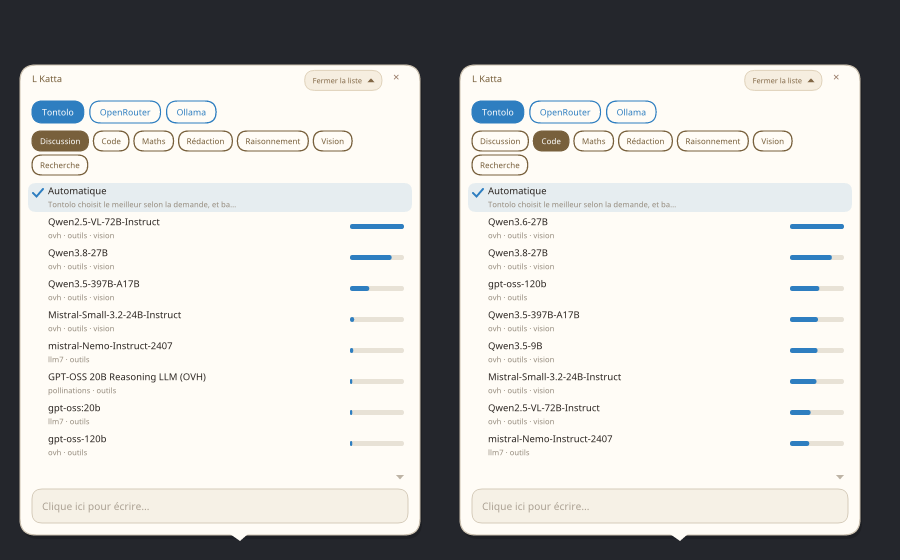
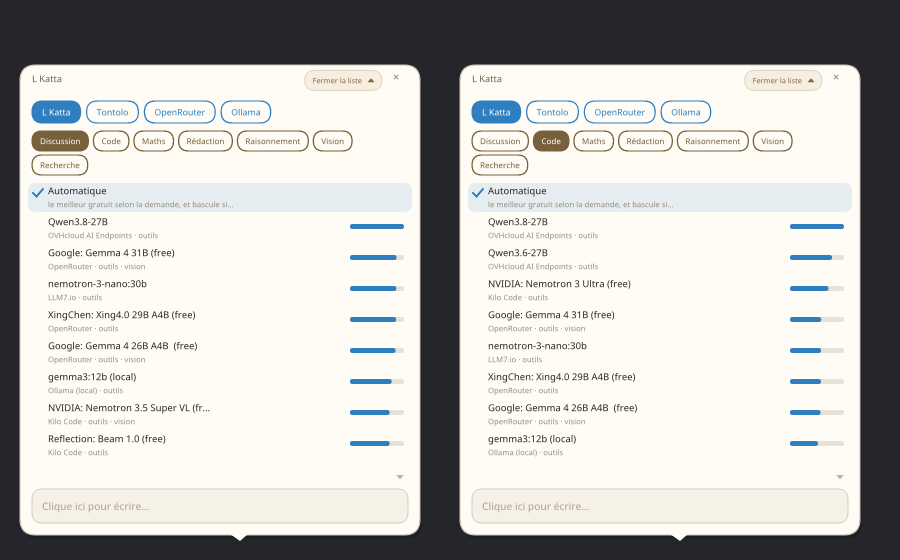
L Katta 0.0.3 : indépendant de Tontolo (moteur intégré), sélecteur de modèles, AppImage

diff --git a/src/maj.rs b/src/maj.rs
@@ -26,6 +26,7 @@ pub struct Release {
     pub version: String,
     pub notes: String,
     archive: String,
+    appimage: String,
     sums: String,
     pub page: String,
 }
@@ -61,13 +62,15 @@ pub fn check() -> Result<Option<Release>, String> {
     };
     let archive = url(&|n| n.ends_with("x86_64-linux.tar.gz"));
     let sums = url(&|n| n == "SHA256SUMS");
-    if archive.is_empty() || sums.is_empty() {
+    let appimage = url(&|n| n.ends_with("x86_64.AppImage"));
+    if (archive.is_empty() && appimage.is_empty()) || sums.is_empty() {
         return Err(format!("la release {tag} n'a pas d'archive Linux vérifiable"));
     }
     Ok(Some(Release {
         version: tag.trim_start_matches('v').to_string(),
         notes: v["name"].as_str().unwrap_or("").to_string(),
         archive,
+        appimage,
         sums,
         page: v["html_url"].as_str().unwrap_or("").to_string(),
     }))
@@ -84,10 +87,23 @@ fn download(url: &str, to: &std::path::Path) -> Result<(), String> {
     std::fs::write(to, bytes).map_err(|e| e.to_string())
 }
 
+/// Le fichier installé est-il une AppImage (signature « AI\x02 » à l'octet 8) ?
+fn is_appimage(p: &std::path::Path) -> bool {
+    use std::io::Read;
+    let mut b = [0u8; 11];
+    std::fs::File::open(p).and_then(|mut f| f.read_exact(&mut b)).is_ok() && &b[8..11] == b"AI\x02"
+}
+
 /// Télécharge, vérifie, installe. Renvoie la nouvelle version.
 pub fn install(rel: &Release) -> Result<String, String> {
-    let exe = std::env::current_exe().map_err(|e| e.to_string())?;
+    let exe = match std::env::var_os("APPIMAGE") {
+        Some(a) => PathBuf::from(a),
+        None => std::env::current_exe().map_err(|e| e.to_string())?,
+    };
     let bin = installed_bin();
+    if is_appimage(&bin) && !rel.appimage.is_empty() {
+        return install_appimage(rel, &bin);
+    }
     if exe.canonicalize().ok() != bin.canonicalize().ok() {
         return Err(format!(
             "cette copie n'est pas l'installation ({}) : mets à jour les sources (git pull) ou lance « lkatta installer »",
@@ -129,6 +145,32 @@ pub fn install(rel: &Release) -> Result<String, String> {
     // Garde l'ancien pour revenir en arrière.
     let _ = std::fs::copy(&bin, bin.with_extension("ancien"));
     std::fs::rename(&tmp, &bin).map_err(|e| e.to_string())?;
+    let _ = std::fs::remove_dir_all(&dir);
+    Ok(rel.version.clone())
+}
+
+fn install_appimage(rel: &Release, bin: &std::path::Path) -> Result<String, String> {
+    let dir = paths::data_dir().join("maj");
+    let _ = std::fs::remove_dir_all(&dir);
+    std::fs::create_dir_all(&dir).map_err(|e| e.to_string())?;
+    let name = rel.appimage.rsplit('/').next().unwrap_or("LKatta.AppImage").to_string();
+    download(&rel.appimage, &dir.join(&name))?;
+    download(&rel.sums, &dir.join("SHA256SUMS"))?;
+    let ok = Command::new("sha256sum").args(["--check", "--ignore-missing", "--status", "SHA256SUMS"]).current_dir(&dir).status().map_err(|e| e.to_string())?;
+    if !ok.success() {
+        return Err("empreinte SHA-256 incorrecte : mise à jour refusée".into());
+    }
+    use std::os::unix::fs::PermissionsExt;
+    let new = dir.join(&name);
+    std::fs::set_permissions(&new, std::fs::Permissions::from_mode(0o755)).map_err(|e| e.to_string())?;
+    let out = Command::new(&new).arg("version").env("APPIMAGE_EXTRACT_AND_RUN", "1").output().map_err(|e| format!("nouvelle AppImage inutilisable : {e}"))?;
+    if !String::from_utf8_lossy(&out.stdout).contains(&rel.version) {
+        return Err("la nouvelle AppImage ne donne pas la version attendue".into());
+    }
+    let tmp = bin.with_extension("new");
+    std::fs::copy(&new, &tmp).map_err(|e| e.to_string())?;
+    let _ = std::fs::copy(bin, bin.with_extension("ancien"));
+    std::fs::rename(&tmp, bin).map_err(|e| e.to_string())?;
     let _ = std::fs::remove_dir_all(&dir);
     Ok(rel.version.clone())
 }

diff --git a/src/install.rs b/src/install.rs
@@ -15,7 +15,11 @@ fn desktop(exec: &str, name: &str, comment: &str, extra: &str) -> String {
 pub fn install() -> Result<(), String> {
     let home = paths::home_dir();
     let bin = home.join(".local/bin/lkatta");
-    let exe = std::env::current_exe().map_err(|e| e.to_string())?;
+    // Lancé depuis l'AppImage : on installe l'AppImage entière (un seul fichier).
+    let exe = match std::env::var_os("APPIMAGE") {
+        Some(a) => std::path::PathBuf::from(a),
+        None => std::env::current_exe().map_err(|e| e.to_string())?,
+    };
     std::fs::create_dir_all(bin.parent().unwrap()).map_err(|e| e.to_string())?;
     if exe != bin {
         // Copie via un fichier temporaire : remplace même un binaire en cours d'exécution.

diff --git a/src/main.rs b/src/main.rs
@@ -156,6 +156,10 @@ fn main() {
         }),
         "installer" => install::install(),
         "desinstaller" => install::uninstall(),
+        "icone" => {
+            let out = args.get(1).map(String::as_str).unwrap_or("lkatta.png");
+            install::icon(256).save_png(out).map_err(|e| e.to_string()).map(|_| println!("{out}"))
+        }
         "apercu-modeles" => install::preview_models(args.get(1).map(String::as_str).unwrap_or("lkatta-modeles.png")),
         "apercu-bulles" => install::preview_bubbles(args.get(1).map(String::as_str).unwrap_or("lkatta-bulles.png")),
         "apercu" => install::preview(args.get(1).map(String::as_str).unwrap_or("lkatta-apercu.png")),

diff --git a/README.md b/README.md
@@ -5,9 +5,10 @@ Il connaît <i>ta</i> machine, t'aide sans te déranger et se balade d'un écran
 
 <p align="center"><img src="docs/apercu.png" alt="Les six lémuriens et leurs poses" width="760"></p>
 
-Dans l'esprit du trombone des anciens Office, mais utile et discret. Son cerveau est le
-moteur de [Tontolo](https://github.com/raantss18/tontolo) (le meilleur modèle d'IA gratuit,
-choisi automatiquement) ; ses outils de maintenance viennent de
+Dans l'esprit du trombone des anciens Office, mais utile et discret. **Tout tient dans un
+seul fichier** : le maki, son moteur d'IA et le choix des modèles. Le moteur, porté de
+[Tontolo](https://github.com/raantss18/tontolo), choisit tout seul le meilleur modèle gratuit
+pour chaque demande, **sans compte ni clé** ; les outils de maintenance viennent de
 [mi-saina](https://github.com/raantss18/mi-saina).
 
 ## Six lémuriens au choix
@@ -48,19 +49,20 @@ choisi automatiquement) ; ses outils de maintenance viennent de
 
 ## Installation
 
-Depuis une [release](https://github.com/raantss18/L-Katta/releases) :
+Le plus simple : l'**AppImage** d'une [release](https://github.com/raantss18/L-Katta/releases).
 
 ```bash
-tar xzf lkatta-*-x86_64-linux.tar.gz && cd lkatta-*-x86_64-linux
-./lkatta installer      # ~/.local/bin, lanceur, démarrage de session
+chmod +x LKatta-*-x86_64.AppImage
+./LKatta-*-x86_64.AppImage installer   # copie dans ~/.local/bin, lanceur, démarrage de session
 lkatta &
 ```
 
-Ou depuis les sources : `cargo build --release && ./target/release/lkatta installer`.
+Ou l'archive `lkatta-*-x86_64-linux.tar.gz`, ou les sources :
+`cargo build --release && ./target/release/lkatta installer` (AppImage : `scripts/appimage.sh`).
 
 Prérequis : Wayland avec *layer-shell* (KDE Plasma, Sway, Hyprland…), `wl-clipboard` ;
-pour les mails `curl` et `secret-tool` (libsecret). Pour l'IA : Tontolo (démarré tout seul
-s'il est installé), sinon une clé OpenRouter gratuite, ou Ollama.
+pour les mails `curl` et `secret-tool` (libsecret). L'IA marche dès l'installation avec les
+modèles gratuits sans clé ; une clé OpenRouter ou Ollama en local en ajoutent d'autres.
 
 ## Souris
 
@@ -77,9 +79,9 @@ Dans la bulle, clique dans le champ pour écrire : elle ne prend jamais le clavi
 ## Choisir le modèle
 
 Comme dans Tontolo : clic sur la pastille du modèle en haut de la bulle (ou `/modeles`).
-Un onglet par moteur, les modèles triés par qualité selon la catégorie (discussion, code,
-maths, rédaction…), « Automatique » en premier : Tontolo choisit alors le meilleur modèle
-gratuit pour chaque demande et bascule tout seul s'il est saturé.
+Les modèles sont triés par qualité selon la catégorie (discussion, code, maths, rédaction…),
+« Automatique » en premier : le moteur intégré choisit alors le meilleur modèle gratuit pour
+chaque demande et bascule tout seul s'il est saturé. `lkatta catalogue` rafraîchit la liste.
 
 <p align="center"><img src="docs/modeles.png" alt="Le sélecteur de modèles" width="640"></p>
 
@@ -125,7 +127,7 @@ terminal autorisés ou non, et `confirmer_tout` pour tout faire valider.
 lkatta dire "Coucou"           lkatta demander "quel dossier prend le plus de place ?"
 lkatta rappel 18h30 appeler Hery          lkatta arbre | teleporter | grimper | ecran
 lkatta discret on              lkatta etat | actualites | profil | quitter
-lkatta maj                     lkatta demarrage on|off
+lkatta maj                     lkatta demarrage on|off       lkatta catalogue
 ```
 
 ## Versions

diff --git a/CHANGELOG.md b/CHANGELOG.md
@@ -2,6 +2,18 @@
 
 Règle : chaque chiffre va de 0 à 9 (0.0.9 → 0.1.0, 0.9.9 → 1.0.0).
 
+## 0.0.3 — 2026-11-08
+
+- **Indépendant de Tontolo** : moteur d'IA intégré, porté de Tontolo. Il choisit seul le
+  meilleur modèle gratuit selon la demande, passe au suivant s'il est saturé et apprend
+  lesquels sont fiables. Aucun compte requis : fournisseurs gratuits sans clé (LLM7,
+  OVHcloud, Kilo, Pollinations), plus OpenRouter si une clé existe et Ollama en local.
+  Catalogue de secours embarqué, rafraîchi en ligne toutes les 12 h (`lkatta catalogue`).
+- **Sélecteur de modèles** dans la bulle, comme dans Tontolo : catégories triées par
+  qualité, « Automatique » en premier, modèles en pause ou sans outils signalés.
+- **AppImage** : tout en un seul fichier (`LKatta-0.0.3-x86_64.AppImage`) ; installation
+  et mises à jour de l'AppImage elle-même.
+
 ## 0.0.2 — 2026-11-08
 
 - **Six lémuriens au choix**, chacun avec son allure et sa démarche : maki catta, propithèque

diff --git a/CLAUDE.md b/CLAUDE.md
@@ -15,6 +15,10 @@
 - Règles strictes : src/regles.rs (machine /etc/lkatta + utilisateur), vérifiées dans
   `tools::execute`. Konsole : src/terminal.rs. Mails : src/mail.rs (curl, trousseau).
   Agenda/contacts : src/agenda.rs. Mise à jour : src/maj.rs (releases GitHub, SHA-256).
+- Moteur d'IA intégré : src/moteur.rs (porté de Tontolo, catalogue assets/seed.json) ;
+  moteur « integre » en premier, Tontolo optionnel. AppImage : scripts/appimage.sh.
+- Tester l'AppImage avec APPIMAGELAUNCHER_DISABLE=1 et un HOME de test : sinon
+  AppImageLauncher ouvre une fenêtre sur l'écran de l'utilisateur.
 - Ne pas tester en changeant de bureau virtuel ni en injectant des touches : l'utilisateur
   travaille sur cette machine pendant les essais.
 - Versions : chaque chiffre 0..9 (0.0.9 → 0.1.0). Feuille de route : docs/TODO.md.
